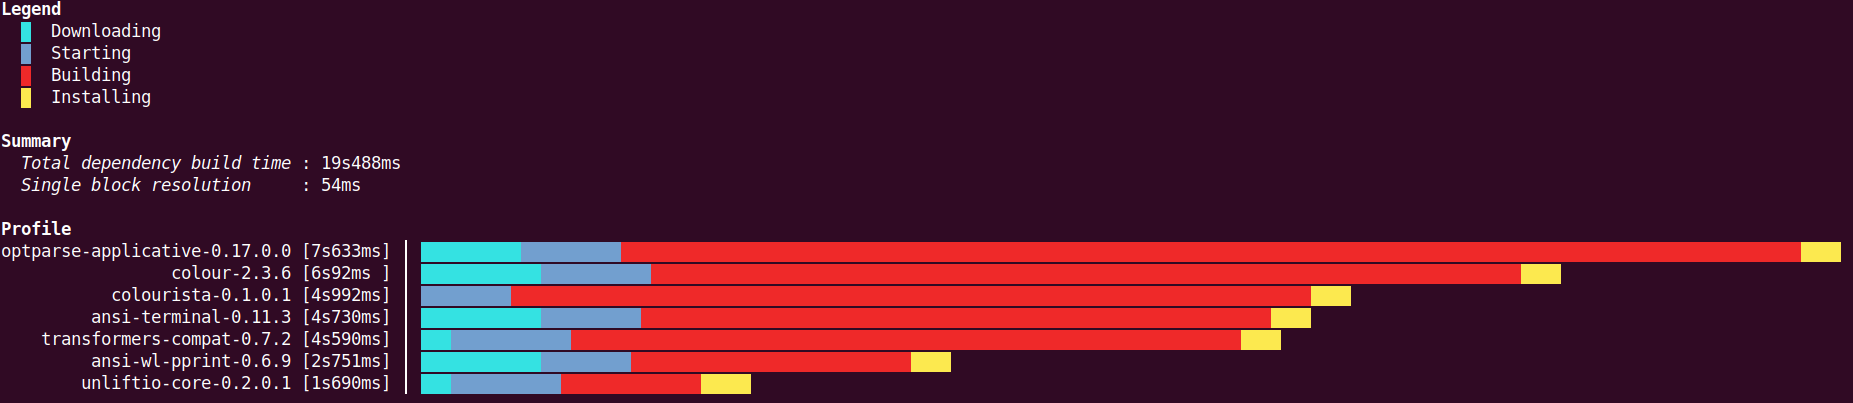
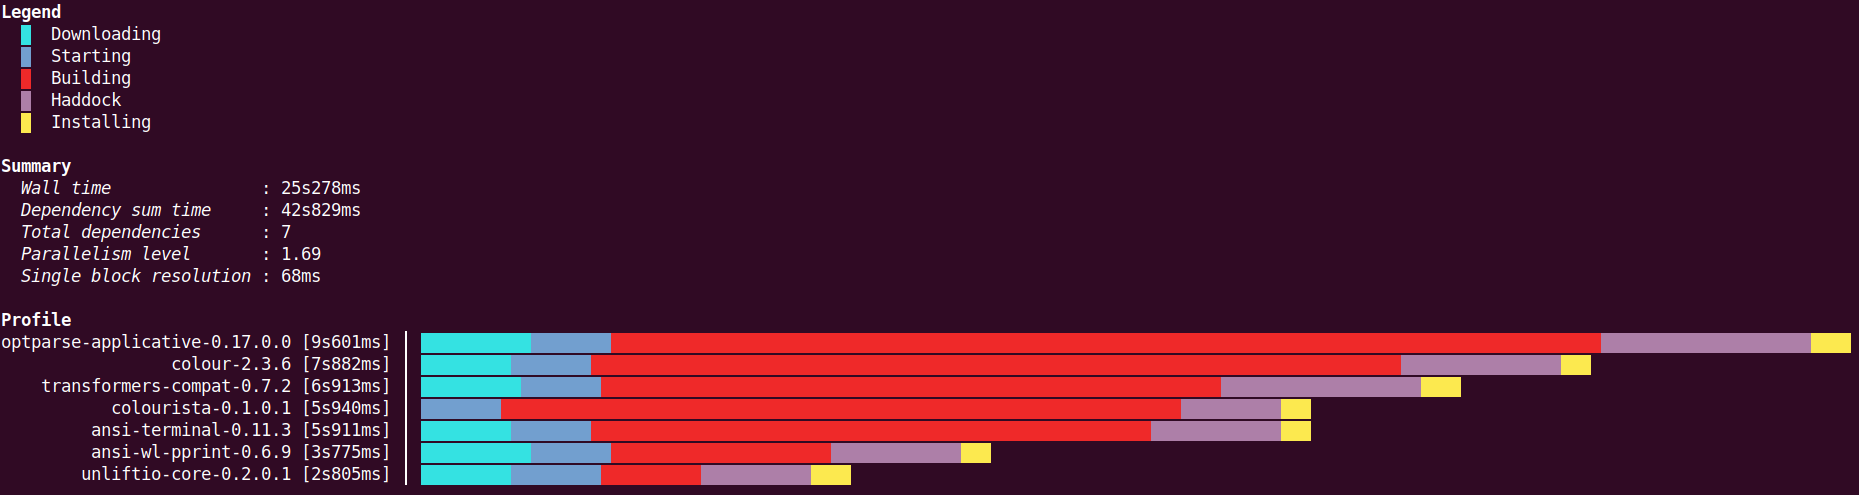
[#19] Prepare release 0.1.0.0 (#20)
Resolves #19

Changed region(s): [[0.0, 0.3275, 1.0, 0.9826], [0.0, 0.0596, 0.0923, 0.268], [0.0, 0.0, 0.0308, 0.0596]]

diff --git a/CHANGELOG.md b/CHANGELOG.md
@@ -3,6 +3,17 @@
 `dr-cabal` uses [PVP Versioning][1].
 The changelog is available [on GitHub][2].
 
+## 0.1.0.0 — August 6, 2022 📚
+
+* [#10](https://github.com/chshersh/dr-cabal/issues/10):
+  Support `Haddock` phase in `cabal build` output
+  (by [@diasbruno](https://github.com/diasbruno))
+* [#14](https://github.com/chshersh/dr-cabal/issues/14):
+  Support `Haddock` phase in `cabal build` output
+  (by [@bradrn](https://github.com/bradrn))
+* Module structure refactoring to add new profiling modes easier
+  (by [@diasbruno](https://github.com/diasbruno))
+
 ## 0.0.0.0 — July 31, 2022 🌇
 
 * Initially created.
